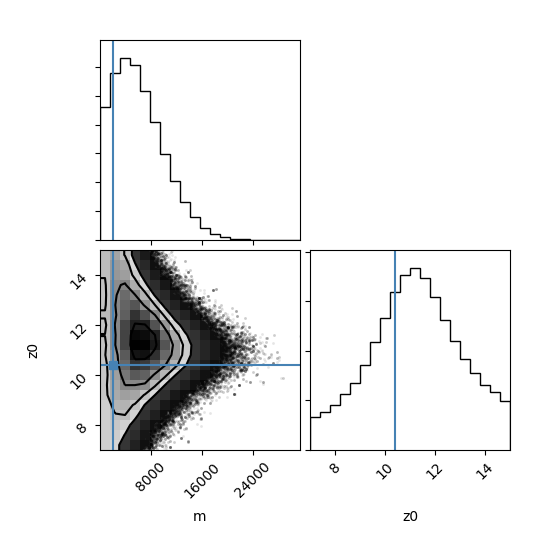
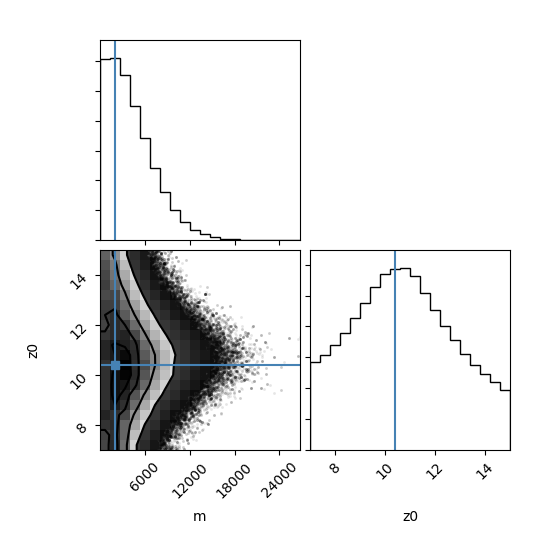
Further updates to MCMC test

diff --git a/plots/mcmc_logistic/test.py b/plots/mcmc_logistic/test.py
@@ -39,7 +39,7 @@ fn_xps = interp2d(zlist, klist, np.transpose(xps))
 
 zlist = np.arange(zmin, zmax, 0.4)
 truth = fn_xps(zlist, 0.1)
-data = np.random.normal(loc=truth, scale=4*np.abs(truth[-1]))
+data = np.random.normal(loc=truth, scale=(4/5)*np.abs(truth))
 
 sigma = 5 * np.abs(truth[-1])
 sigma = np.full(len(truth), sigma)
